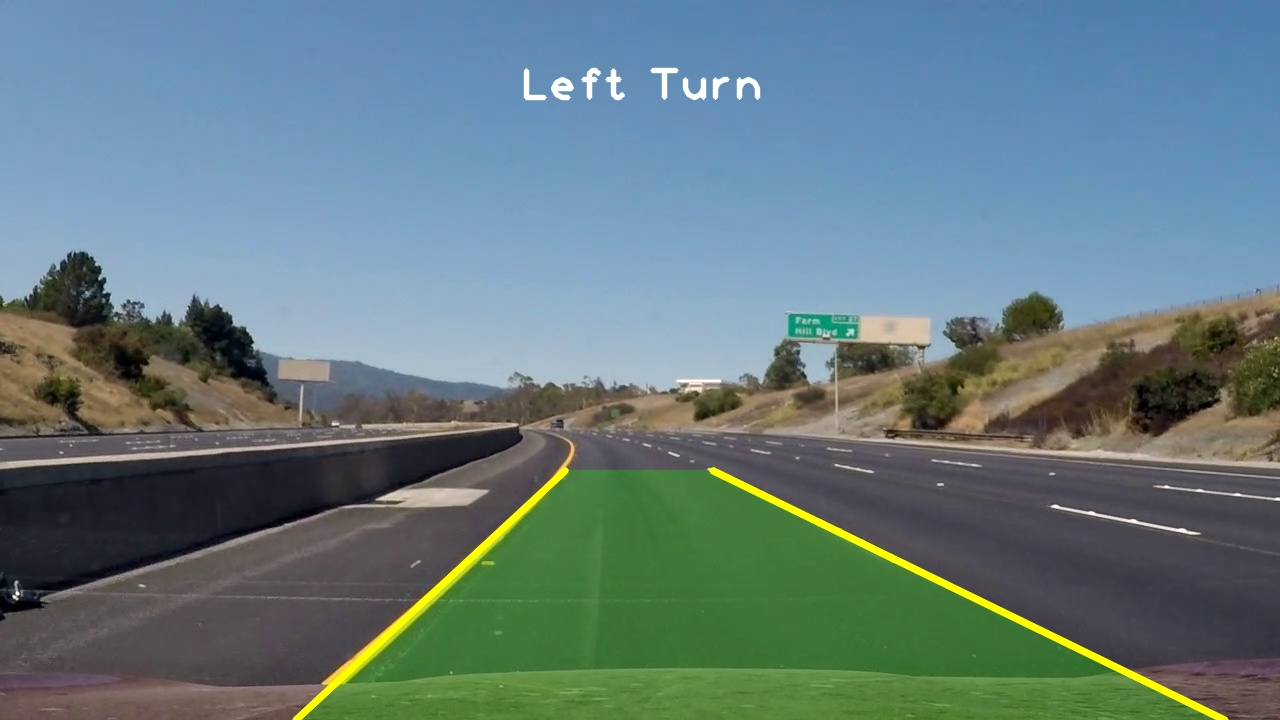
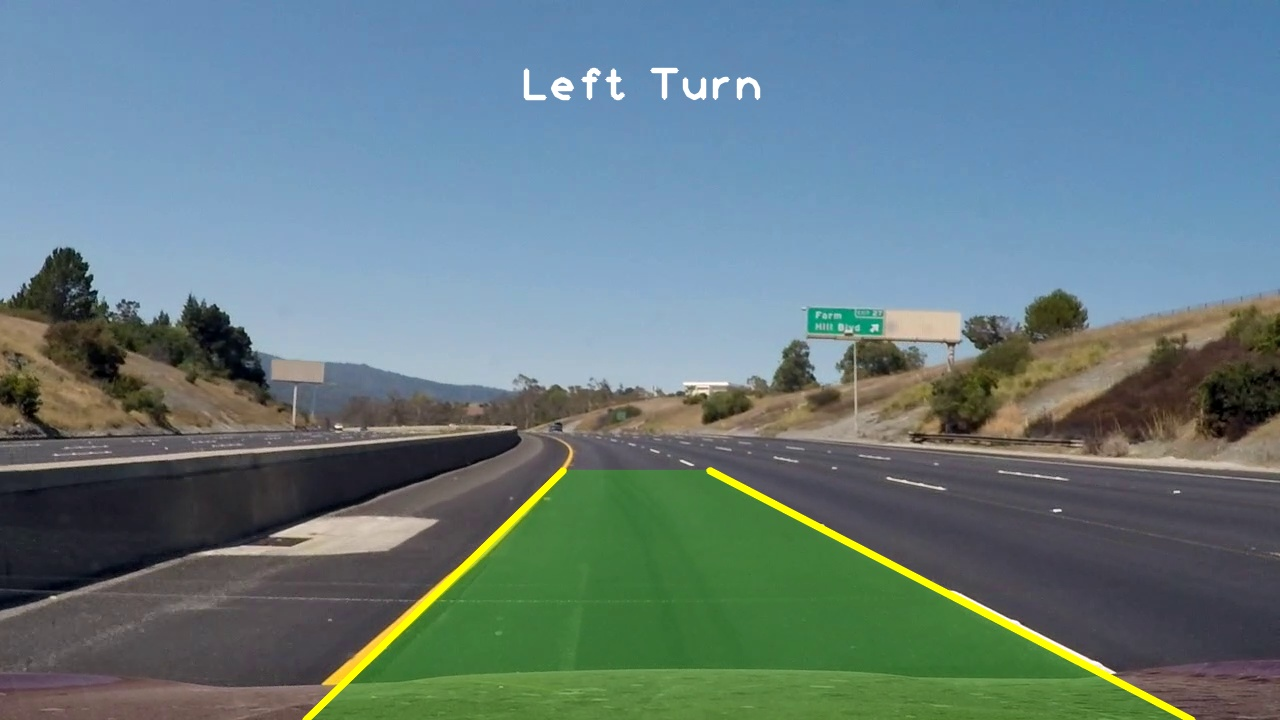
최종 완성_v03

diff --git a/RoadLaneDetection/RoadLaneDetection.cpp b/RoadLaneDetection/RoadLaneDetection.cpp
@@ -11,7 +11,7 @@ Mat RoadLaneDetector::filter_colors(Mat img_frame) {
 		흰색/노란색 색상의 범위를 정해 해당되는 차선을 필터링한다.
 	*/
 	Mat output;
-	UMat img_hsv, img_combine;
+	UMat img_hsv;
 	UMat white_mask, white_image;
 	UMat yellow_mask, yellow_image;
 	img_frame.copyTo(output);
@@ -51,10 +51,10 @@ Mat RoadLaneDetector::limit_region(Mat img_edges) {
 	
 	//관심 영역 정점 계산
 	Point points[4]{
-		Point((width * (1 - trap_bottom_width)) / 2, height),
-		Point((width * (1 - trap_top_width)) / 2, height - height * trap_height),
-		Point(width - (width * (1 - trap_top_width)) / 2, height - height * trap_height),
-		Point(width - (width * (1 - trap_bottom_width)) / 2, height)
+		Point((width * (1 - poly_bottom_width)) / 2, height),
+		Point((width * (1 - poly_top_width)) / 2, height - height * poly_height),
+		Point(width - (width * (1 - poly_top_width)) / 2, height - height * poly_height),
+		Point(width - (width * (1 - poly_bottom_width)) / 2, height)
 	};
 
 	//정점으로 정의된 다각형 내부의 색상을 채워 그린다.
@@ -83,40 +83,44 @@ vector<vector<Vec4i>> RoadLaneDetector::separateLine(Mat img_edges, vector<Vec4i
 	*/
 	
 	vector<vector<Vec4i>> output(2);
-	Point ini, fini;
+	Point p1, p2;
 	vector<double> slopes;
-	vector<Vec4i> selected_lines, left_lines, right_lines;
+	vector<Vec4i> final_lines, left_lines, right_lines;
 	double slope_thresh = 0.3;
 
 	//검출된 직선들의 기울기를 계산
 	for (int i = 0; i < lines.size(); i++) {
 		Vec4i line = lines[i];
-		ini = Point(line[0], line[1]);
-		fini = Point(line[2], line[3]);
+		p1 = Point(line[0], line[1]);
+		p2 = Point(line[2], line[3]);
 
-		double slope = (static_cast<double>(fini.y) - static_cast<double>(ini.y)) 
-			/ (static_cast<double>(fini.x) - static_cast<double>(ini.x) + 0.00001);
+		double slope;
+		if (p2.x - p1.x == 0)  //코너 일 경우
+			slope = 999.0;
+		else
+			slope = (p2.y - p1.y) / (double)(p2.x - p1.x);
 
 		//기울기가 너무 수평인 선은 제외
 		if (abs(slope) > slope_thresh) {
 			slopes.push_back(slope);
-			selected_lines.push_back(line);
+			final_lines.push_back(line);
 		}
 	}
 
 	//선들을 좌우 선으로 분류
-	img_center = static_cast<double>((img_edges.cols / 2));
-	for (int i = 0; i < selected_lines.size(); i++) {
-		ini = Point(selected_lines[i][0], selected_lines[i][1]);
-		fini = Point(selected_lines[i][2], selected_lines[i][3]);
+	img_center = (double)((img_edges.cols / 2));
 
-		if (slopes[i] > 0 && fini.x > img_center && ini.x > img_center) {
-			right_lines.push_back(selected_lines[i]);
+	for (int i = 0; i < final_lines.size(); i++) {
+		p1 = Point(final_lines[i][0], final_lines[i][1]);
+		p2 = Point(final_lines[i][2], final_lines[i][3]);
+
+		if (slopes[i] > 0 && p1.x > img_center && p2.x > img_center) {
 			right_detect = true;
+			right_lines.push_back(final_lines[i]);
 		}
-		else if (slopes[i] < 0 && fini.x < img_center && ini.x < img_center) {
-			left_lines.push_back(selected_lines[i]);
+		else if (slopes[i] < 0 && p1.x < img_center && p2.x < img_center ) {
 			left_detect = true;
+			left_lines.push_back(final_lines[i]);
 		}
 	}
 
@@ -130,23 +134,22 @@ vector<Point> RoadLaneDetector::regression(vector<vector<Vec4i>> separatedLines,
 		선형 회귀를 통해 좌우 차선 각각의 가장 적합한 선을 찾는다.
 	*/
 	vector<Point> output(4);
-	Point ini, fini;
-	Point ini2, fini2;
+	Point p1, p2, p3, p4;
 	Vec4d left_line, right_line;
-	vector<Point> left_pts, right_pts;
+	vector<Point> left_points, right_points;
 
 	if (right_detect) {
 		for (auto i : separatedLines[0]) {
-			ini = Point(i[0], i[1]);
-			fini = Point(i[2], i[3]);
+			p1 = Point(i[0], i[1]);
+			p2 = Point(i[2], i[3]);
 
-			right_pts.push_back(ini);
-			right_pts.push_back(fini);
+			right_points.push_back(p1);
+			right_points.push_back(p2);
 		}
 
-		if (right_pts.size() > 0) {
+		if (right_points.size() > 0) {
 			//주어진 contour에 최적화된 직선 추출
-			fitLine(right_pts, right_line, DIST_L2, 0, 0.01, 0.01);
+			fitLine(right_points, right_line, DIST_L2, 0, 0.01, 0.01);
 			
 			right_m = right_line[1] / right_line[0];  //기울기
 			right_b = Point(right_line[2], right_line[3]);
@@ -155,16 +158,16 @@ vector<Point> RoadLaneDetector::regression(vector<vector<Vec4i>> separatedLines,
 	
 	if (left_detect) {
 		for (auto j : separatedLines[1]) {
-			ini2 = Point(j[0], j[1]);
-			fini2 = Point(j[2], j[3]);
+			p3 = Point(j[0], j[1]);
+			p4 = Point(j[2], j[3]);
 
-			left_pts.push_back(ini2);
-			left_pts.push_back(fini2);
+			left_points.push_back(p3);
+			left_points.push_back(p4);
 		}
 
-		if (left_pts.size() > 0) {
+		if (left_points.size() > 0) {
 			//주어진 contour에 최적화된 직선 추출
-			fitLine(left_pts, left_line, DIST_L2, 0, 0.01, 0.01);
+			fitLine(left_points, left_line, DIST_L2, 0, 0.01, 0.01);
 			
 			left_m = left_line[1] / left_line[0];  //기울기
 			left_b = Point(left_line[2], left_line[3]); 
@@ -173,19 +176,19 @@ vector<Point> RoadLaneDetector::regression(vector<vector<Vec4i>> separatedLines,
 
 	//좌우 선 각각의 두 점을 계산한다.
 	//y = m*x + b  --> x = (y-b) / m
-	int ini_y = img_input.rows;
-	int fin_y = 470;
+	int y1 = img_input.rows;
+	int y2 = 470;
 
-	double right_ini_x = ((ini_y - right_b.y) / right_m) + right_b.x;
-	double right_fin_x = ((fin_y - right_b.y) / right_m) + right_b.x;
+	double right_x1 = ((y1 - right_b.y) / right_m) + right_b.x;
+	double right_x2 = ((y2 - right_b.y) / right_m) + right_b.x;
 
-	double left_ini_x = ((ini_y - left_b.y) / left_m) + left_b.x;
-	double left_fin_x = ((fin_y - left_b.y) / left_m) + left_b.x;
+	double left_x1 = ((y1 - left_b.y) / left_m) + left_b.x;
+	double left_x2 = ((y2 - left_b.y) / left_m) + left_b.x;
 
-	output[0] = Point(right_ini_x, ini_y);
-	output[1] = Point(right_fin_x, fin_y);
-	output[2] = Point(left_ini_x, ini_y);
-	output[3] = Point(left_fin_x, fin_y);
+	output[0] = Point(right_x1, y1);
+	output[1] = Point(right_x2, y2);
+	output[2] = Point(left_x1, y1);
+	output[3] = Point(left_x2, y2);
 
 	return output;
 }
@@ -197,33 +200,32 @@ string RoadLaneDetector::predictDir() {
 	*/
 	
 	string output;
-	double vx;
-	double thres_vp = 10;
+	double x, threshold = 10;
 	
 	//두 차선이 교차하는 지점 계산
-	vx = static_cast<double>(((right_m * right_b.x) - (left_m * left_b.x) - right_b.y + left_b.y) / (right_m - left_m));
+	x = (double)(((right_m * right_b.x) - (left_m * left_b.x) - right_b.y + left_b.y) / (right_m - left_m));
 
-	if (vx < img_center - thres_vp)
-		output = "Left Turn";
-	else if (vx > img_center + thres_vp)
-		output = "Right Turn";
-	else if (vx >= (img_center - thres_vp) && vx <= (img_center + thres_vp))
+	if (x >= (img_center - threshold) && x <= (img_center + threshold))
 		output = "Straight";
-
+	else if (x > img_center + threshold)
+		output = "Right Turn";
+	else if (x < img_center - threshold)
+		output = "Left Turn";
+	
 	return output;
 }
 
 Mat RoadLaneDetector::drawLine(Mat img_input, vector<Point> lane, string dir) {
 	/*
 		좌우 차선을 경계로 하는 내부 다각형을 투명하게 색을 채운다.
-		좌우 차선을 영상에 선으로 그린다.
 		예측 진행 방향 텍스트를 영상에 출력한다.
+		좌우 차선을 영상에 선으로 그린다.
 	*/
 	
 	vector<Point> poly_points;
 	Mat output;
-
 	img_input.copyTo(output);
+
 	poly_points.push_back(lane[2]);
 	poly_points.push_back(lane[0]);
 	poly_points.push_back(lane[1]);
@@ -232,12 +234,12 @@ Mat RoadLaneDetector::drawLine(Mat img_input, vector<Point> lane, string dir) {
 	fillConvexPoly(output, poly_points, Scalar(0,230, 30), LINE_AA, 0);  //다각형 색 채우기
 	addWeighted(output, 0.3, img_input, 0.7, 0, img_input);  //영상 합하기
 
+	//예측 진행 방향 텍스트를 영상에 출력
+	putText(img_input, dir, Point(520, 100), FONT_HERSHEY_PLAIN, 3, Scalar(255, 255, 255), 3, LINE_AA);
+
 	//좌우 차선 선 그리기
 	line(img_input, lane[0], lane[1], Scalar(0, 255, 255), 5, LINE_AA);
 	line(img_input, lane[2], lane[3], Scalar(0, 255, 255), 5, LINE_AA);
 	
-	//예측 진행 방향 텍스트를 영상에 출력
-	putText(img_input, dir, Point(520, 100), FONT_HERSHEY_PLAIN, 3, Scalar(255, 255, 255),3, LINE_AA);
-
 	return img_input;
 }
